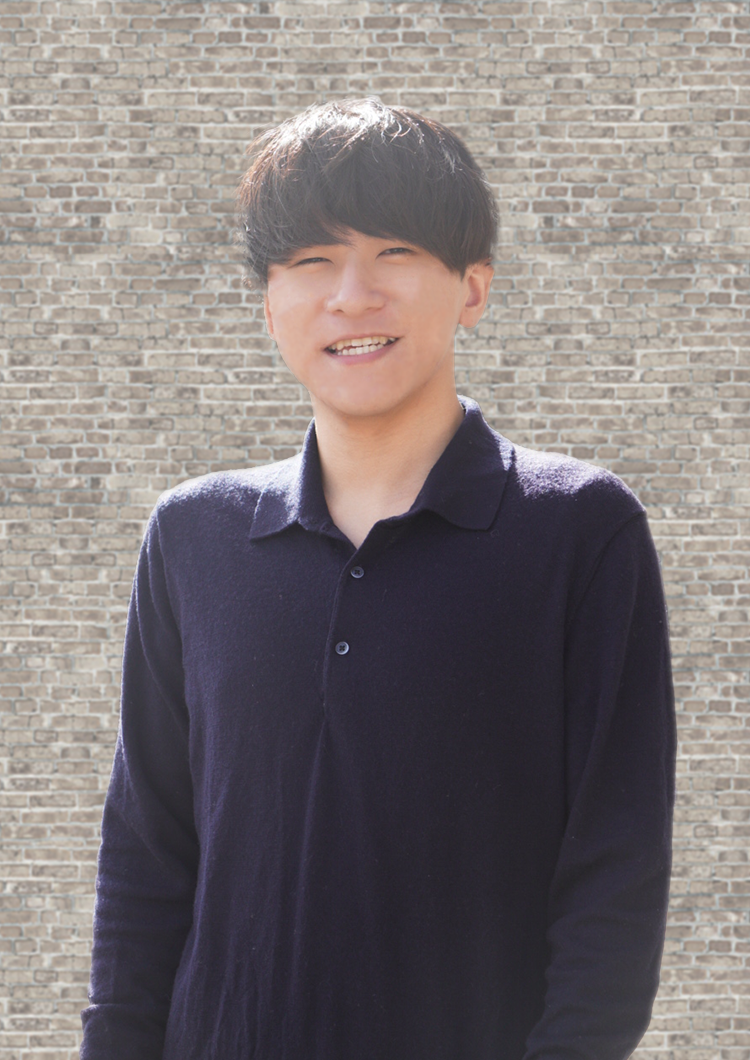
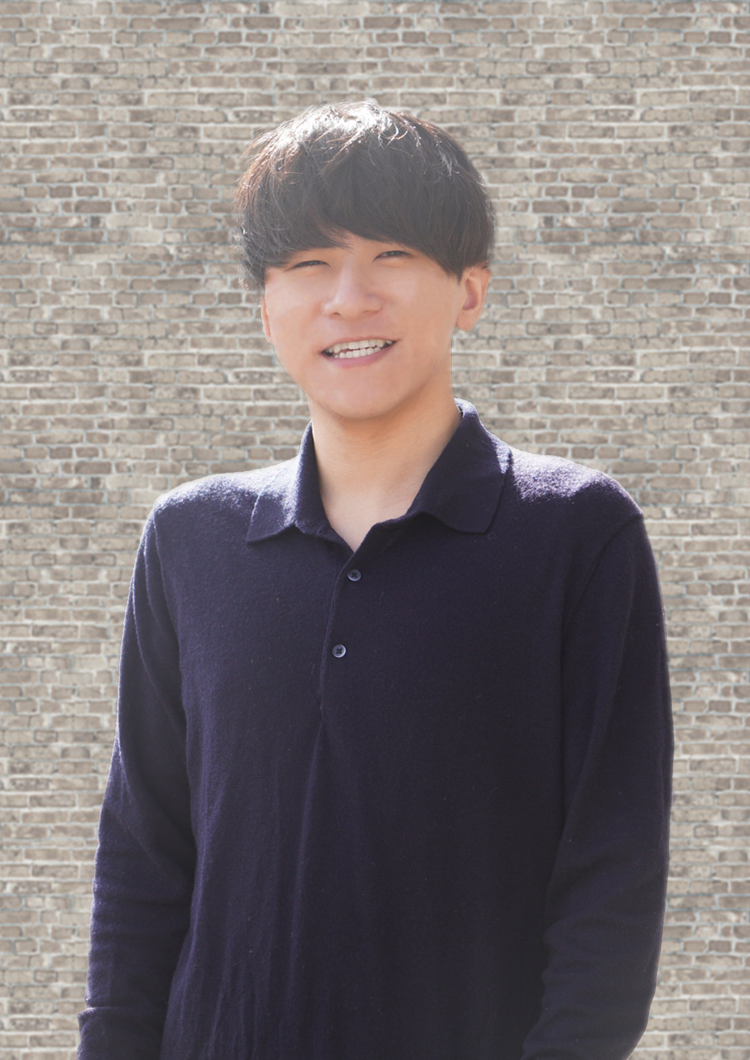
TOP：MV修正、画像削除

diff --git a/css/style.css b/css/style.css
@@ -125,13 +125,13 @@ li {
 .split-body {
   width: 50%;
   padding-right: 3%;
-  padding-left: 10%;
+  padding-left: 6%;
 }
 
 .split-img {
   width: 50%;
   height: 95vh;
-  background-image: url(../img/mv.jpg);
+  background: linear-gradient(to left , transparent 0% , transparent 80% , #fff 100%) , url(../img/portfolio-mv_pc.png);
   background-repeat: no-repeat;
   background-position: center center;
   background-size: cover;
@@ -376,7 +376,7 @@ li {
     width: 100%;
     height: 67vh;
     margin-bottom: 20px;
-    background-image: url(../img/sp_mv.jpg);
+    background-image: url(../img/portfolio-mv_sp.png);
   }
 
   .split-title {
